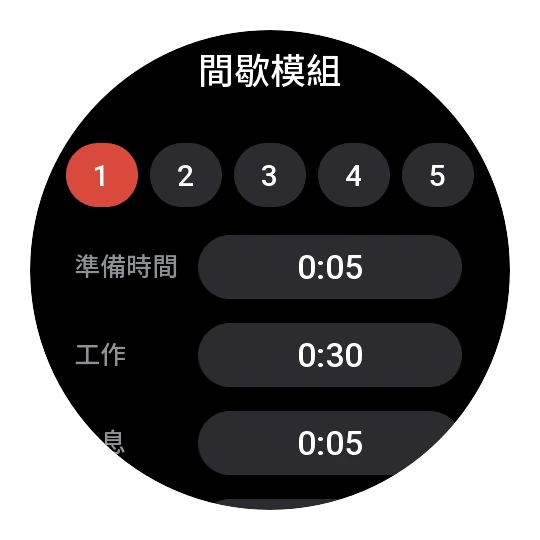
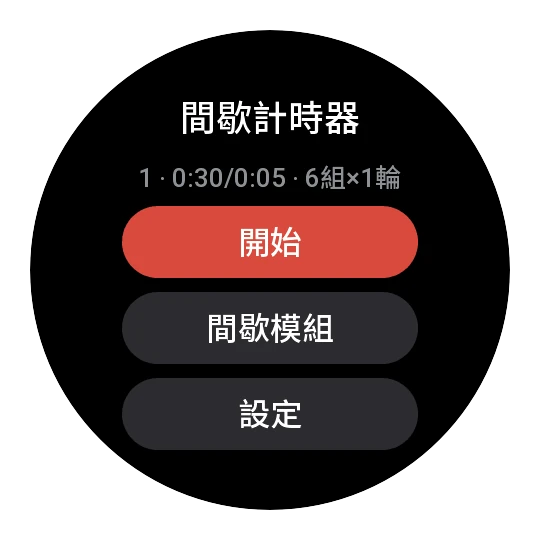
content: Interval Timer gets its home screen, three shots total (#58)
Adds the launch screen (間歇計時器 / 開始) and renumbers so the file order
matches the carousel order: interval1 running timer, interval2 home,
interval3 the 1-5 module settings.

The home screen arrived as a transparent PNG, so same treatment as the
settings shot -- 30px transparent margin, WebP at 90.

diff --git a/src/assets/index.ts b/src/assets/index.ts
@@ -8,6 +8,7 @@ import sushiOtokoMobile1 from "./showcases/SushiOtoko/sushiOtoko-mobile1.webp";
 
 import interval1 from "./showcases/Interval/interval1.webp";
 import interval2 from "./showcases/Interval/interval2.webp";
+import interval3 from "./showcases/Interval/interval3.webp";
 import apnea1 from "./showcases/Apnea/apnea1.webp";
 
 // ?no-inline: each of these is under Vite's 4KB inline limit, so without it they
@@ -44,7 +45,9 @@ export const avifVersions: Record<string, string> = {
 export const dodScreenshots = [dod1, dod2, dod3, dod4];
 
 export const sushiOtokoScreenshots = [sushiOtoko1, sushiOtokoMobile1];
-export const intervalScreenshots = [interval1, interval2];
+// order is the story: running timer, then the home screen it starts from,
+// then the 1-5 module settings behind it
+export const intervalScreenshots = [interval1, interval2, interval3];
 export const apneaScreenshots = [apnea1];
 
 export { contactEmail, contactGithub, contactLinkedIn };
